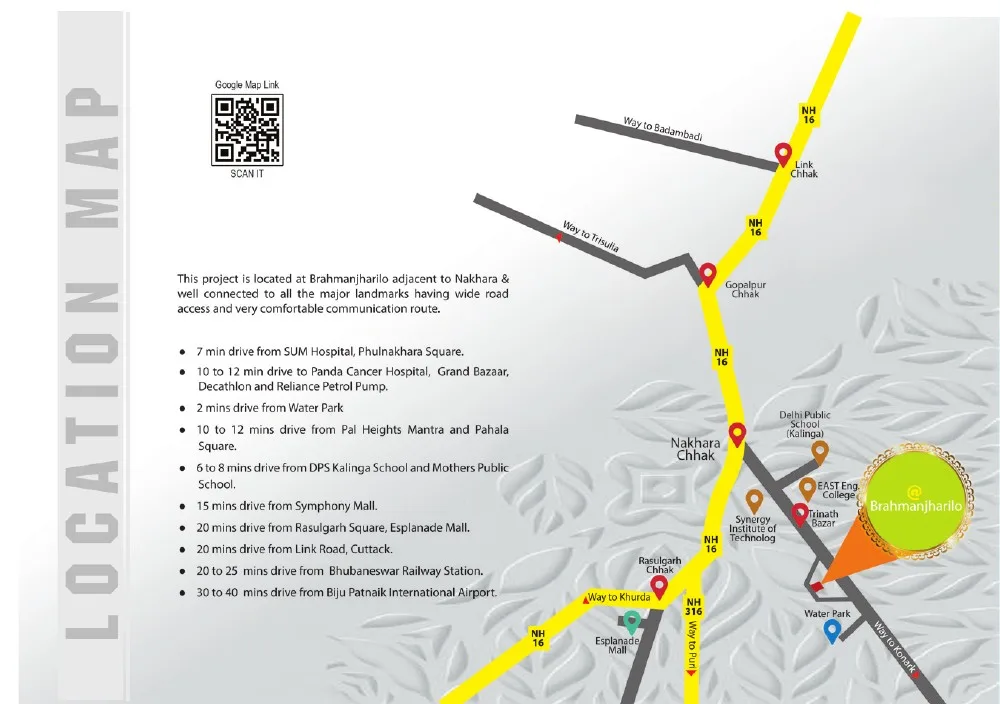
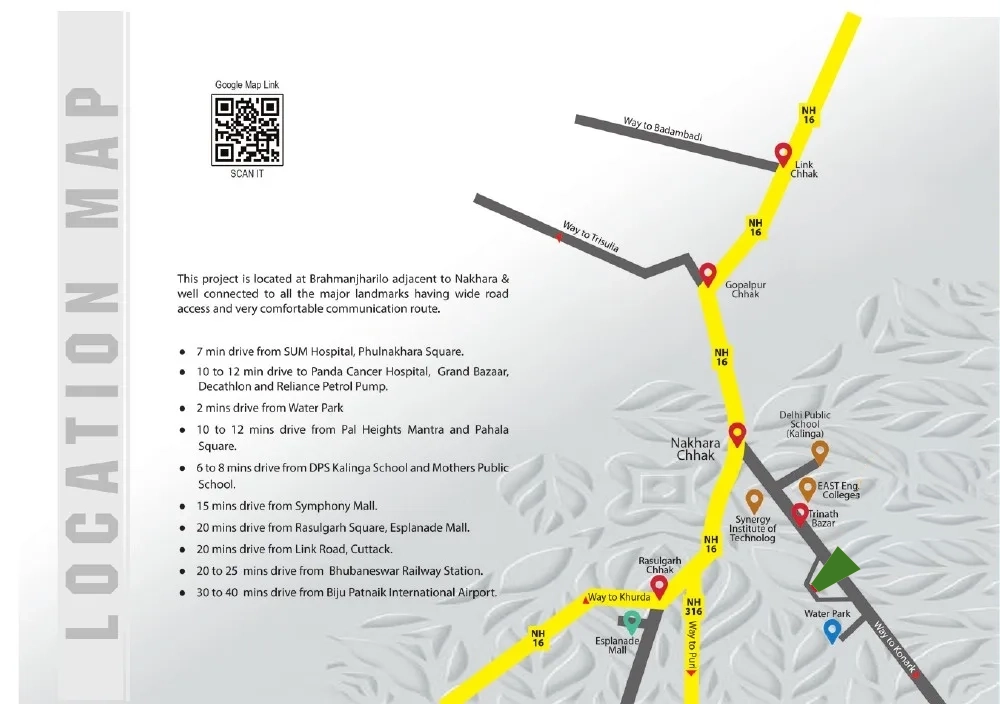
new updates

Changed region(s): [[0.806, 0.625, 0.992, 0.8438], [0.682, 0.8438, 0.713, 0.875]]

diff --git a/index.html b/index.html
@@ -90,7 +90,7 @@
   </section>
 
   <section class="amenity-feature" id="amenities">
-    <div class="amenity-image"><img src="assets/brochure/page-08-right.webp" width="1000" height="704" loading="lazy" alt="Clubhouse and outdoor badminton court in an architectural recreation rendering from the brochure"></div>
+    <div class="amenity-image"><img src="assets/brochure/Luxury Community Amenities Aerial Montage.png" width="1000" height="704" loading="lazy" alt="Clubhouse and outdoor badminton court in an architectural recreation rendering from the brochure"></div>
     <div class="amenity-copy"><p class="eyebrow">04 · BADMINTON & SWIMMING POOL</p><h2>Space to play,<br><em>room to unwind.</em></h2><p>Explore the brochure's recreation visual and ask the project team to confirm current plans and availability.</p><a class="button button-light" href="#enquiry" data-intent="Project Information">Request Project Information <span aria-hidden="true">↗</span></a><small>Architectural recreation rendering from the project brochure.</small></div>
   </section>
 
@@ -112,9 +112,10 @@
   <section class="section location" id="location">
     <div class="section-label">06 <span>LOCATION & CONNECTIVITY</span></div>
     <div class="section-head"><div><p class="eyebrow dark-eyebrow">BRAHMANJHARILO · NAKHARA</p><h2>Connected to<br><em>everyday essentials.</em></h2></div><p>The brochure places the project at Brahmanjharilo, adjacent to Nakhara, Cuttack, with road access to nearby services and city connections.</p></div>
-    <div class="location-content"><figure class="location-map"><div class="location-map-art"><img class="location-map-base" src="assets/brochure/page-10-left.webp" width="1000" height="704" loading="lazy" alt="Location and nearby landmark map reproduced from the project brochure"><img class="map-site-layout" src="assets/brochure/page-03-left.webp" width="1000" height="704" loading="lazy" alt="Aerial community layout from the project brochure"><span class="map-rera">RERA Regd. No.<br>PS/07/2025/01394</span></div><figcaption>Location map and project layout as shown in the brochure; verify the exact site pin and routes before travel.</figcaption></figure><div class="distance-list">
+    <div class="location-content"><figure class="location-map"><div class="location-map-art"><img class="location-map-base" src="assets/brochure/page-10-left.webp" width="1000" height="704" loading="lazy" alt="Location and nearby landmark map reproduced from the project brochure"><img class="map-site-layout" src="assets/brochure/page-03-left.webp" width="1000" height="704" loading="lazy" alt="Aerial community layout from the project brochure"></div><figcaption>Location map and project layout as shown in the brochure; verify the exact site pin and routes before travel.</figcaption></figure><div class="distance-list">
       <div><span>~2 min</span><p>Water Park</p></div><div><span>~7 min</span><p>SUM Hospital, Phulnakhara Square</p></div><div><span>~6–8 min</span><p>DPS Kalinga School & Mother's Public School</p></div><div><span>~10–12 min</span><p>Panda Cancer Hospital, Grand Bazaar, Decathlon & Reliance Petrol Pump</p></div><div><span>~10–12 min</span><p>Pal Heights Mantra & Pahala Square</p></div><div><span>~15 min</span><p>Symphony Mall</p></div><div><span>~20 min</span><p>Rasulgarh Square, Esplanade Mall & Link Road, Cuttack</p></div><div><span>~20–25 min</span><p>Bhubaneswar Railway Station</p></div><div><span>~30–40 min</span><p>Biju Patnaik International Airport</p></div>
     </div></div><p class="small-print">Journey times are brochure estimates and may vary by route, traffic and starting point.</p>
+    <div class="location-note"><div class="map-rera"><span class="map-rera-label">RERA Regd. No.</span><strong>PS/07/2025/01394</strong></div><span class="note-icon">✳</span><p>Location and layout images are reproduced from the brochure and are representative visuals, not photographs of completed homes.</p></div>
   </section>
 
   <section class="developer-band">

diff --git a/styles.css b/styles.css
@@ -23,7 +23,7 @@
 .location-map-art{position:relative;width:100%;aspect-ratio:1.15;background:#f7f7f1}
 .location-map .location-map-base{width:100%;height:100%;aspect-ratio:auto;object-fit:contain}
 .location-map .map-site-layout{position:absolute;left:82.9%;top:63.5%;width:11%;height:auto;aspect-ratio:1;object-fit:cover;border:2px solid #d7b764;border-radius:50%}
-.map-rera{position:absolute;top:77%;left:69%;width:28%;padding:5px 6px;border:1px solid #d7b764;background:#fcfbf7ed;color:var(--green);font-size:clamp(7px,.7vw,9px);font-weight:700;line-height:1.35;text-align:center}
+.map-rera{display:inline-flex;flex-direction:column;align-items:center;justify-content:center;gap:4px;position:static;width:auto;max-width:100%;padding:10px 14px;border:1px solid #d7b764;background:linear-gradient(135deg,#fffdf8,#f6f0e2);color:var(--green);font-size:clamp(7px,.7vw,9px);font-weight:700;line-height:1.2;text-align:center;box-shadow:0 8px 24px rgba(18,61,43,.08)}.map-rera-label{display:block;font-size:8px;letter-spacing:1.6px;text-transform:uppercase;color:var(--gold-dark)}.map-rera strong{display:block;font-size:clamp(12px,1vw,18px);letter-spacing:.2px}.location-note{display:flex;align-items:center;gap:14px;flex-wrap:wrap;padding:18px 20px;margin-top:16px;background:#f8f5ec;border:1px solid #eadfb4;border-radius:2px}.location-note .note-icon{color:var(--gold-dark);font-size:18px;line-height:1}.location-note p{margin:0;color:var(--muted);font-size:12px;line-height:1.8}
 @media(max-width:1100px){.brand .brand-symbols{width:46px;height:28px}}
 @media(max-width:600px){.brand img{width:37px;height:37px}.brand .brand-symbols{width:24px;height:16px}.brand-copy{font-size:7px}.brand-copy small{font-size:5px;letter-spacing:.2px}.header-cta{max-width:96px;min-height:36px;padding:0 7px;font-size:6.5px;line-height:1.2;white-space:normal;text-align:center}.menu-toggle{width:34px;height:34px}}
 @media(max-width:360px){.brand{gap:4px}.brand img{width:34px;height:34px}.brand .brand-symbols{width:22px;height:15px}.brand-copy small{letter-spacing:.1px}.header-cta{max-width:87px}.menu-toggle{width:32px;height:32px}}
